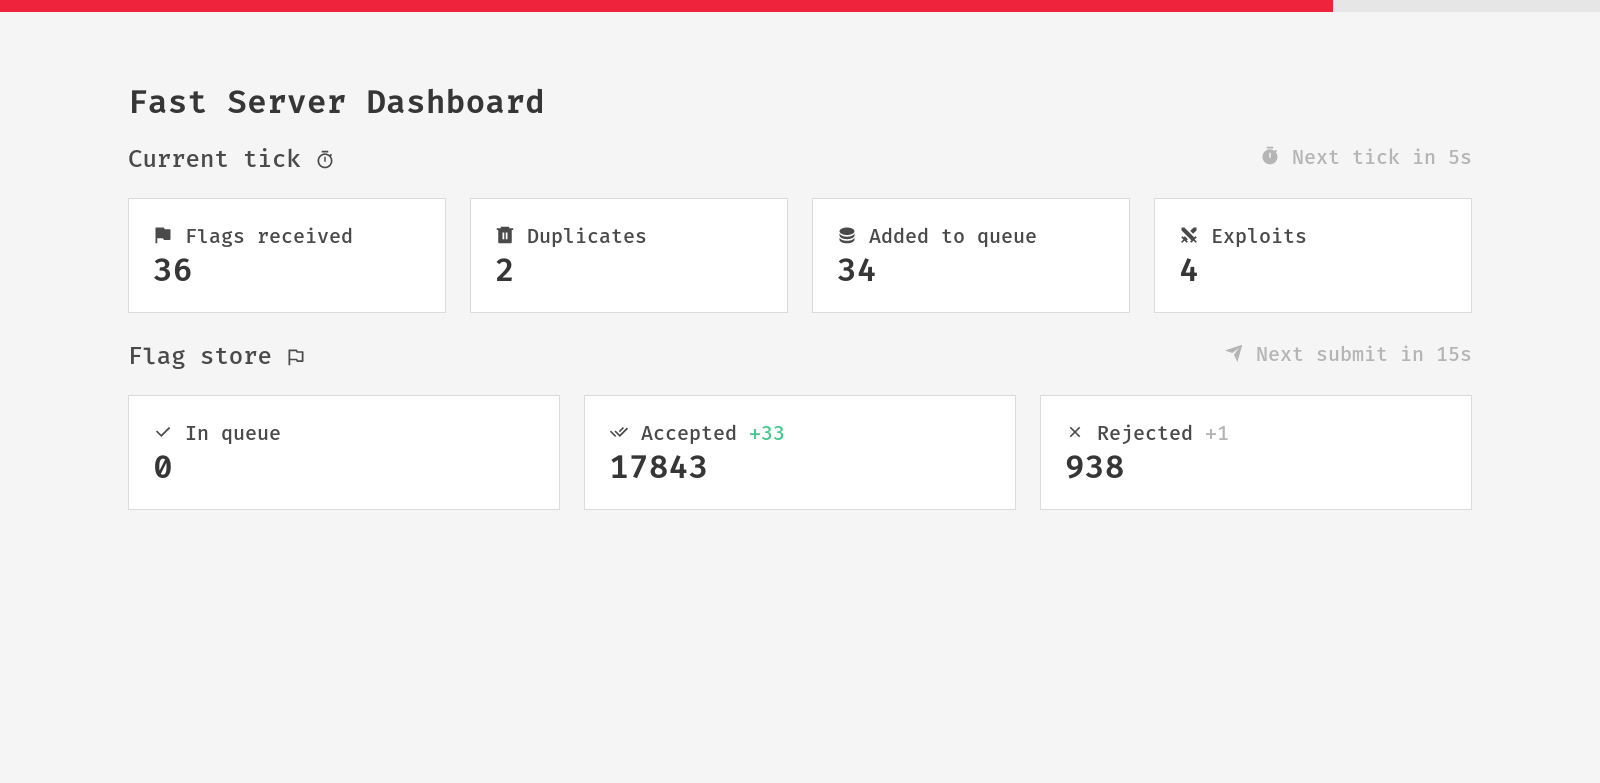
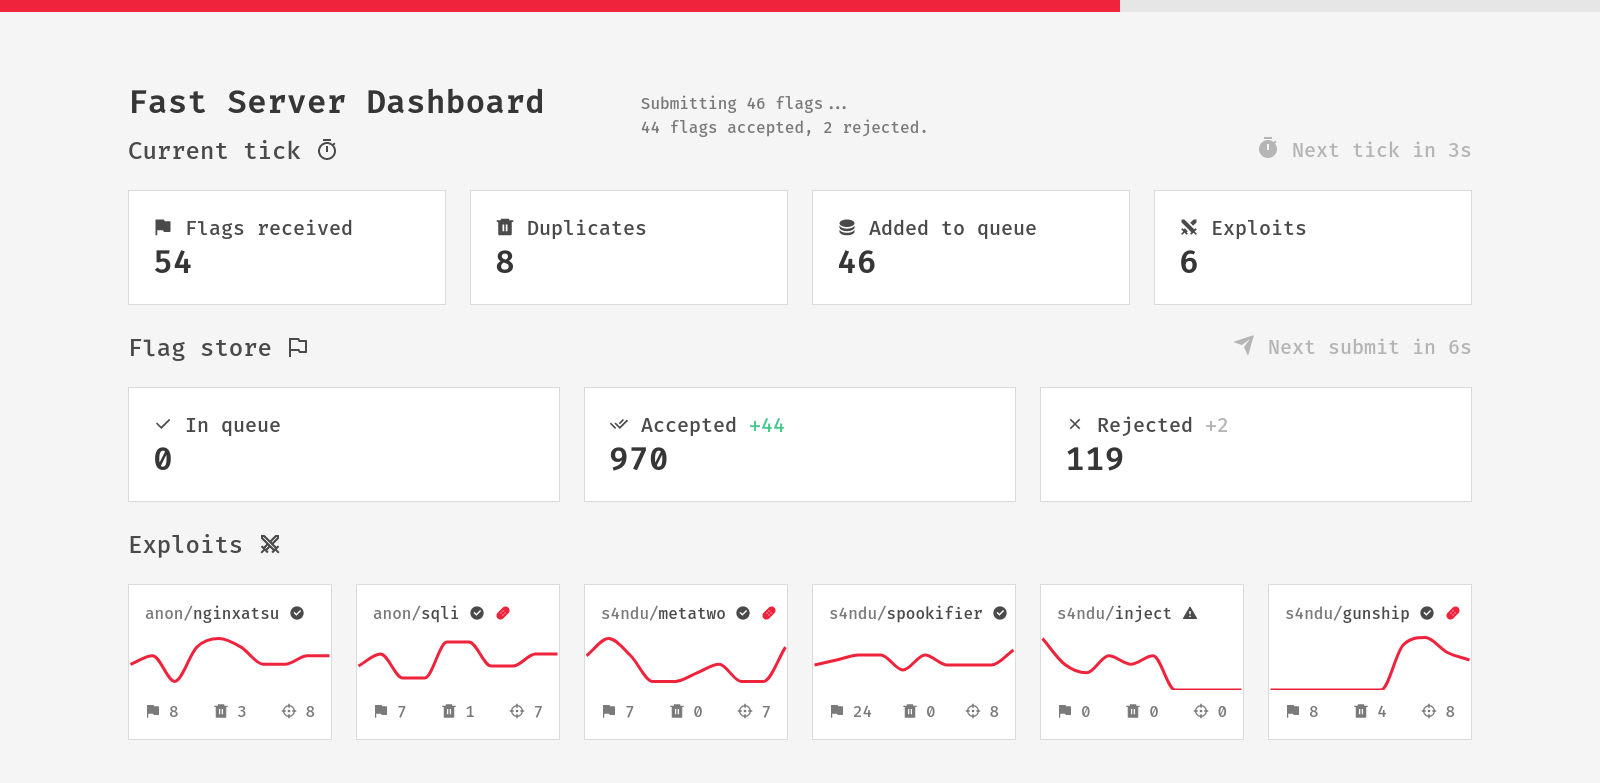
Update readme and screenshot

diff --git a/README.md b/README.md
@@ -24,11 +24,6 @@ Or you can do it yourself.
 
 ```sh
 git clone --depth 1 https://github.com/dusanlazic/fast.git
-pip install fast/
-```
-
-If you wish to edit the source code while using it, install in editable mode.
-```sh
 pip install -e fast/
 ```
 
@@ -42,7 +37,7 @@ pip install -e fast/
 game:
   tick_duration: 120
   flag_format: FAST\{[a-f0-9]{10}\}  # Fast will extract all the flags from your exploit's response
-  team_ip: 172.20.0.5  # Skip your own team. If your team has multiple addresses, use a list: [172.20.0.5, 172.20.1.5, 172.20.2.5]
+  team_ip: 172.20.0.5  # Discard flags of your own team. If your team has multiple addresses, use a list: [172.20.0.5, 172.20.1.5, 172.20.2.5]
 
 submitter:
   delay: 10  # Submit flags 10 seconds after the beginning of each tick
@@ -57,7 +52,15 @@ server:
 
 2. In the same directory, create a submitter script. If you did not specify `module` in `server.yaml`, name it `submitter.py`. Otherwise, name it to match your custom module name. To work properly with Fast, submitter should follow this [submitter script guideline](#submitter-script-guideline).
 
-3. Run server.
+3. Run Postgres database. For now, you can use this one-liner.
+
+```sh
+docker pull postgres:alpine && docker run --name "fast_database_container" -e POSTGRES_DB="fast" -e POSTGRES_USER="admin" -e POSTGRES_PASSWORD="admin" -p 5432:5432 -d postgres
+```
+
+*In the later versions, you will be able to configure database connection.s
+
+4. Run server.
 
 ```
 server
@@ -84,7 +87,7 @@ myexploits/
 
 ```yaml
 connect:
-  host: 192.168.1.49  # IP address of the machine that is running Fast server
+  host: 192.168.1.49  # Host of the machine that is running Fast server
   port: 2023
   player: s4ndu  # Your username to identify your actions in logs
   password: letmein  # If the server has a password, use it here
@@ -222,12 +225,12 @@ Executing this command will run the specified exploits and tell the server to su
 
 ## Planned features and goals
 
-- [ ] Web dashboard for monitoring. (WIP)
-- [ ] Easy exploit health monitoring on dashboard.
 - [ ] Handle connection failure with the server and provide a fallback for keeping the flags locally.
 - [ ] Guarantee that every non-duplicate retrieved flag will be submitted.
-- [ ] Support HTTPS to prevent packet sniffing for flags
+- [ ] Support HTTPS to prevent packet sniffing for flags.
 - [ ] Optional centralized client integrated with git repository.
+- [x] Web dashboard for monitoring.
+- [x] Easy exploit health monitoring on dashboard.
 - [x] Verbose flag history (track OLD, DUP, etc.)
 - [x] Validate configs when starting.
 - [x] Make some client configuration (e.g. `connect`) immutable after starting.
